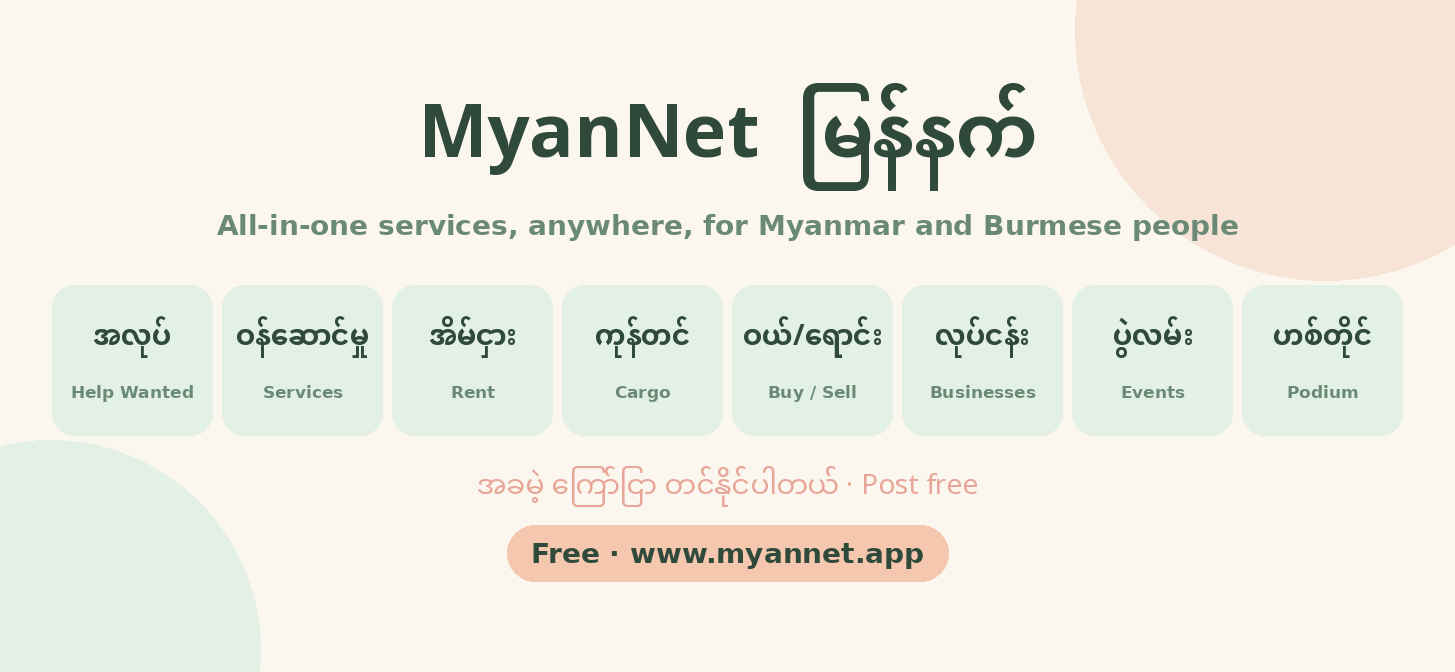
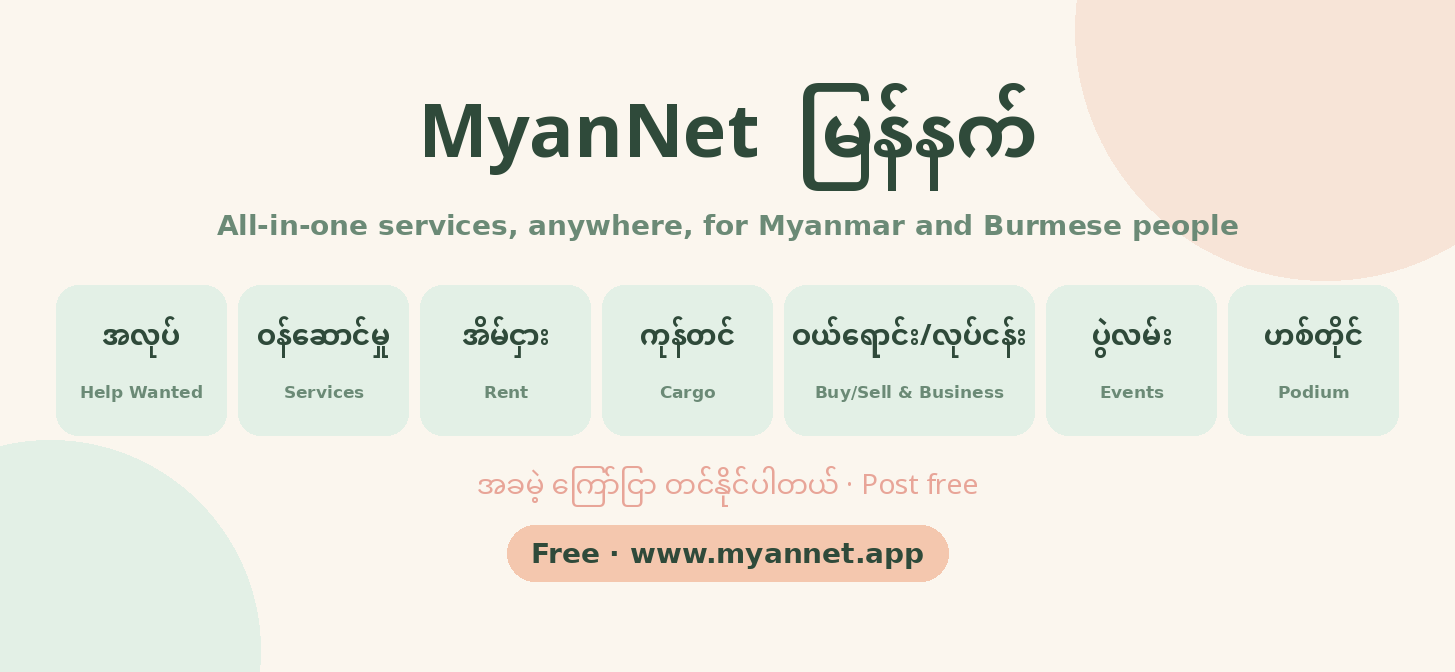
Combine Buy/Sell and Businesses into one section
Claude-Session: https://claude.ai/code/session_01Qz7Ga2ARQCafnsXr2KAzox

diff --git a/app/page.tsx b/app/page.tsx
@@ -22,9 +22,9 @@ const T = {
     tagline:"The all-in-one platform for Burmese/Myanmar communities worldwide — find work, find services, rent a room, ship goods, buy & sell, and share community events — all in one trusted place.",
     vision:"Connecting Myanmar/Burmese communities living and working abroad with their loved ones at home, and vice versa.",
     visionTitle:"🌏 Our Vision", whoTitle:"Who MyanNet Serves",
-    pillars:["Help Wanted","Services","Rent","Cargo / Hand Carry","Buy / Sell Goods","Businesses","Community / Events"],
-    pillarIcons:["💼","🛠","🏠","✈","🛍","🏪","🎉"],
-    pillarDesc:["Find work or post openings across all countries","Tax, law, notary, office paperwork, translation & more","Find or offer housing in the Burmese community","Hand-carry goods between countries — trusted travelers","Buy & sell within the trusted Burmese community","Find Burmese-owned businesses, shops & services","Festivals, temple & community events, meetups and classes"],
+    pillars:["Help Wanted","Services","Rent","Cargo / Hand Carry","Buy, Sell & Business","Community / Events"],
+    pillarIcons:["💼","🛠","🏠","✈","🏪","🎉"],
+    pillarDesc:["Find work or post openings across all countries","Tax, law, notary, office paperwork, translation & more","Find or offer housing in the Burmese community","Hand-carry goods between countries — trusted travelers","Buy & sell items, and find Burmese-owned businesses & shops","Festivals, temple & community events, meetups and classes"],
     who:[{e:"🍣",t:"Burmese Sushi Workers",d:"In US restaurants, grocery stores & catering"},{e:"🏭",t:"Factory & Construction Workers",d:"In Thailand, Malaysia, Korea & Japan"},{e:"🏪",t:"Small Business Owners",d:"Restaurants, shops & services in diaspora"},{e:"✈",t:"New Arrivals",d:"Need housing, work & community fast"},{e:"💰",t:"Families Back Home",d:"Staying connected with loved ones abroad"},{e:"🌏",t:"Cross-Border Travelers",d:"Hand-carrying goods between countries"}],
     findWork:"Find Work", hireWorkers:"Hire Workers", allPosts:"All", jobsAvail:"🏪 Jobs Available", seekWork:"👷 Seeking Work",
     allRooms:"All", roomsAvail:"🏠 Available", seekRoom:"🔍 Seeking",
@@ -50,9 +50,9 @@ const T = {
     tagline:"ကမ္ဘာတစ်ဝှမ်းရှိ မြန်မာ/ဗမာ လူ့အဖွဲ့အစည်းများအတွက် စုံလင်သောပလက်ဖောင်း — အလုပ်ရှာ၊ ဝန်ဆောင်မှုရှာ၊ အခန်းငှား၊ ကုန်ပို့၊ အသိုင်းအဝိုင်း ပွဲလမ်းများနှင့် ယုံကြည်စိတ်ချရသော အသိုင်းအဝိုင်းအတွင်း ဝယ်/ရောင်း နိုင်ပါတယ်။",
     vision:"နိုင်ငံခြားတွင် အလုပ်လုပ်/နေထိုင်နေသော မြန်မာများနှင့် ဒေသတွင်းရှိ မိသားစု မိတ်ဆွေများအတွက်/ကို  ချိတ်ဆက်ပေးမည့် — နှစ်ဦးနှစ်ဖက်/အပြန်အလှန် အကျိုးတူ",
     visionTitle:"🌏 ကျွန်ုပ်တို့၏ မျှော်မှန်းချက်", whoTitle:"မြန်နက် မည်သူမဆို",
-    pillars:["အလုပ်အကိုင်","ဝန်ဆောင်မှု","အိမ်ငှား","ကုန်တင်ဆောင်","ဝယ်/ရောင်း ပစ္စည်းများ","လုပ်ငန်းများ","ပွဲလမ်း / အသိုင်းအဝိုင်း"],
-    pillarIcons:["💼","🛠","🏠","✈","🛍","🏪","🎉"],
-    pillarDesc:["နိုင်ငံတကာတွင် အလုပ်ရှာဖွေ သို့မဟုတ် ဖော်ပြရန်","အခွန်၊ ဥပဒေ၊ နိုတာရီ၊ ရုံးစာရွက်စာတမ်း၊ ဘာသာပြန် စသည်","မြန်မာ့လူ့အဖွဲ့အစည်းအတွင်း အိမ်ရှာဖွေ သို့မဟုတ် ငှားရမ်းရန်","နိုင်ငံများကြားတွင် ကိုယ်ထည်ဆောင်ပေးသောဝန်ဆောင်မှု","ယုံကြည်ရသောအသိုင်းအဝိုင်းအတွင်း ဝယ်ရောင်းရန်","မြန်မာလုပ်ငန်းများ၊ ဆိုင်များနှင့် ဝန်ဆောင်မှုများ ရှာဖွေရန်","ပွဲတော်များ၊ ဘုန်းကြီးကျောင်းနှင့် အသိုင်းအဝိုင်း ပွဲများ၊ တွေ့ဆုံပွဲ၊ သင်တန်းများ"],
+    pillars:["အလုပ်အကိုင်","ဝန်ဆောင်မှု","အိမ်ငှား","ကုန်တင်ဆောင်","ဝယ်ရောင်း နှင့် လုပ်ငန်း","ပွဲလမ်း / အသိုင်းအဝိုင်း"],
+    pillarIcons:["💼","🛠","🏠","✈","🏪","🎉"],
+    pillarDesc:["နိုင်ငံတကာတွင် အလုပ်ရှာဖွေ သို့မဟုတ် ဖော်ပြရန်","အခွန်၊ ဥပဒေ၊ နိုတာရီ၊ ရုံးစာရွက်စာတမ်း၊ ဘာသာပြန် စသည်","မြန်မာ့လူ့အဖွဲ့အစည်းအတွင်း အိမ်ရှာဖွေ သို့မဟုတ် ငှားရမ်းရန်","နိုင်ငံများကြားတွင် ကိုယ်ထည်ဆောင်ပေးသောဝန်ဆောင်မှု","ပစ္စည်း ဝယ်ရောင်းရန်နှင့် မြန်မာလုပ်ငန်း၊ ဆိုင်များ ရှာဖွေရန်","ပွဲတော်များ၊ ဘုန်းကြီးကျောင်းနှင့် အသိုင်းအဝိုင်း ပွဲများ၊ တွေ့ဆုံပွဲ၊ သင်တန်းများ"],
     who:[{e:"🍣",t:"ဆူရှီ သမားများအတွက်",d:"အမေရိကန်ရှိ စားသောက်ဆိုင်နှင့်လိုအပ်တာများ"},{e:"🏭",t:"စက်ရုံနှင့် ဆောက်လုပ်ရေး",d:"ထိုင်း၊ မလေးရှား၊ ကိုရီးယား၊ ဂျပန်တွင်"},{e:"🏪",t:"လုပ်ငန်းရှင်များ",d:"ပြည်ပရှိ စားသောက်ဆိုင်၊ ဆိုင်ခန်းနှင့် ဝန်ဆောင်မှုများ"},{e:"✈",t:"အသစ်ရောက်ရှိသူများ",d:"အိမ်ရာ၊ အလုပ်နှင့် အသိုင်းအဝိုင်း လိုအပ်သူများ"},{e:"💰",t:"မြန်မာပြည်ရှိ မိသားစု",d:"ပြည်ပရှိ ချစ်ရသူများနှင့် ဆက်သွယ်နေသူများ"},{e:"🌏",t:"နိုင်ငံဖြတ်ကျော်ခရီးသည်",d:"နိုင်ငံများကြားတွင် ကုန်ပစ္စည်းဆောင်ဆောင်သူများ"}],
     findWork:"အလုပ်ရှာ", hireWorkers:"အလုပ်သမားခေါ်", allPosts:"အားလုံး", jobsAvail:"🏪 အလုပ်ရှိသည်", seekWork:"👷 အလုပ်ရှာနေသည်",
     allRooms:"အားလုံး", roomsAvail:"🏠 ငှားရမ်းရန်ရှိ", seekRoom:"🔍 အိမ်ရှာနေသည်",
@@ -98,18 +98,7 @@ const CARGO=[
   {id:4,type:"carry",name:"Ko Nay Lin",route:"Tokyo → Yangon",date:"Sep 3, 2025",space:"8 kg",price:"$10/kg",contact:"+81-90-555-0404",desc:"Electronics, medicine, clothes. No liquids.",descMM:"အီလက်ထရောနစ်၊ ဆေး၊ အဝတ်အထည်။ အရည်မဆောင်ပါ။"},
   {id:5,type:"need",name:"Daw Khin",route:"USA → Yangon",date:"Before Sep",items:"Documents, baby items",contact:"+1-323-555-0202",desc:"Urgent: documents + baby formula.",descMM:"အရေးပေါ်: စာရွက်စာတမ်းနှင့် ကလေးနို့မှုန့်"},
 ];
-const GOODS=[
-  {id:1,title:"Toyota Camry 2018",titleMM:"တိုယိုတာ ကမ်ရီ ၂၀၁၈",cat:"🚗 Vehicles",price:"$12,500",loc:"Houston 🇺🇸",seller:"Ko Aung",img:"🚗",desc:"Clean title, 85k miles.",descMM:"မှတ်ပုံတင်သန့်၊ ၈၅,၀၀၀ မိုင်"},
-  {id:2,title:"iPhone 14 Pro 256GB",titleMM:"အိုင်ဖုန်း ၁၄ ပရို",cat:"📱 Electronics",price:"$650",loc:"LA 🇺🇸",seller:"Ma Thida",img:"📱",desc:"Unlocked, excellent condition.",descMM:"ကိုမဆိုသုံးနိုင်၊ အခြေအနေကောင်းသည်"},
-  {id:3,title:"Sushi Equipment Full Set",titleMM:"ဆူရှီ ကိရိယာ အစုံ",cat:"🔪 Equipment",price:"$3,200",loc:"Chicago 🇺🇸",seller:"U Kyaw",img:"🔪",desc:"Rice cooker, display case, full tools.",descMM:"ထမင်းပေါင်း၊ ပြသသောသေတ္တာ၊ ကိရိယာအစုံ"},
-  {id:4,title:"Honda Jazz 2016",titleMM:"ဟွန်ဒါ ဂျက် ၂၀၁၆",cat:"🚗 Vehicles",price:"RM 28,000",loc:"KL 🇲🇾",seller:"Ko Myo",img:"🚙",desc:"Good condition, service record.",descMM:"အခြေအနေကောင်း၊ ပြုပြင်မှတ်တမ်းရှိ"},
-  {id:5,title:"Gold Necklace 2 Baht",titleMM:"ရွှေလည်ဆွဲ ၂ ဘာတ်",cat:"💍 Jewelry",price:"฿28,000",loc:"Bangkok 🇹🇭",seller:"Ma Hnin",img:"💍",desc:"Myanmar gold, genuine.",descMM:"မြန်မာ ရွှေစစ်စစ်"},
-  {id:6,title:"Burmese Cooking Pots Set",titleMM:"မြန်မာ ချက်ပြုတ်ရေး အိုးစုံ",cat:"🍳 Household",price:"$80",loc:"Atlanta 🇺🇸",seller:"Daw Khin",img:"🍳",desc:"Large set, great for restaurant.",descMM:"ကြီးသောအစုံ၊ စားသောက်ဆိုင်အတွက် သင့်တော်"},
-  {id:7,title:"Samsung Galaxy S23",titleMM:"ဆမ်ဆောင်း ဂလက်ဆီ S23",cat:"📱 Electronics",price:"¥45,000",loc:"Tokyo 🇯🇵",seller:"Ko Nay",img:"📱",desc:"Like new, unlocked.",descMM:"အသစ်နှင့်တူ၊ ကိုမဆိုသုံးနိုင်"},
-  {id:8,title:"Sewing Machine — Singer",titleMM:"ဆင်ဂျာ ချုပ်စက်",cat:"🪡 Equipment",price:"RM 350",loc:"Penang 🇲🇾",seller:"Ma Win",img:"🧵",desc:"Works perfectly, moving sale.",descMM:"ကောင်းစွာအလုပ်လုပ်သည်"},
-];
-
-const PILLARS=["jobs","services","rent","cargo","goods","biz","events"];
+const PILLARS=["jobs","services","rent","cargo","biz","events"];
 const COLORS={jobs:"#c0392b",services:"#7c3aed",events:"#4d7c0f",rent:"#0891b2",cargo:"#d97706",goods:"#16a34a",biz:"#9d174d"};
 const avCol=a=>a==="Available Now"?"#16a34a":a==="Available This Week"?"#d97706":"#6366f1";
 const Tag=({bg="#f3f4f6",c="#374151",children})=><span style={{background:bg,color:c,borderRadius:20,padding:"3px 10px",fontSize:11,fontWeight:700,display:"inline-block",margin:"2px"}}>{children}</span>;
@@ -123,8 +112,7 @@ export default function App(){
   const [modal,setModal]=useState(null);
   const [sendAmt,setSendAmt]=useState("500");
   const [fromC,setFromC]=useState("🇺🇸 USA");
-  const [goodsCat,setGoodsCat]=useState("All");
-  const [profileOpen,setProfileOpen]=useState(false);
+    const [profileOpen,setProfileOpen]=useState(false);
 
   // Auth (real Supabase sign-in once keys are set; demo sign-in until then)
   const [user,setUser]=useState(null);
@@ -379,34 +367,6 @@ export default function App(){
           ))}
         </div>
       </div>}
-
-      {/* GOODS */}
-      {tab==="goods"&&<div style={{maxWidth:1000,margin:"0 auto",padding:"18px 16px"}}>
-        <div style={{display:"flex",gap:8,flexWrap:"wrap",marginBottom:18}}>
-          {["All","🚗 Vehicles","📱 Electronics","🔪 Equipment","💍 Jewelry","🍳 Household"].map(c=>(
-            <button key={c} onClick={()=>setGoodsCat(c)} style={{padding:"7px 14px",borderRadius:20,border:`2px solid ${goodsCat===c?"#16a34a":"#ddd"}`,background:goodsCat===c?"#16a34a":"#fff",color:goodsCat===c?"#fff":"#555",fontWeight:700,cursor:"pointer",fontSize:12}}>{c}</button>
-          ))}
-        </div>
-        <CommunityListings pillar="goods" color={COLORS.goods}/>
-        <div style={{background:"#f3f4f6",borderRadius:10,padding:"9px 12px",margin:"6px 0 12px",fontSize:12,color:"#555"}}>{t.examplesNote}</div>
-        <div style={{display:"grid",gridTemplateColumns:"repeat(auto-fill,minmax(220px,1fr))",gap:14}}>
-          {GOODS.filter(g=>goodsCat==="All"||g.cat===goodsCat).map(g=>(
-            <div key={g.id} style={{background:"#fff",borderRadius:16,padding:16,boxShadow:"0 4px 14px rgba(0,0,0,0.07)"}}>
-              <div style={{background:"#f0fdf4",borderRadius:12,height:80,display:"flex",alignItems:"center",justifyContent:"center",fontSize:44,marginBottom:10}}>{g.img}</div>
-              <div style={{display:"flex",justifyContent:"space-between",alignItems:"flex-start",marginBottom:4}}>
-                <div style={{fontWeight:800,fontSize:13,flex:1}}>{tx(g.title,g.titleMM)}</div>
-                <div style={{fontWeight:900,fontSize:15,color:"#16a34a",marginLeft:6}}>{g.price}</div>
-              </div>
-              <Tag bg="#e5e7eb" c="#374151">{t.example}</Tag><Tag bg="#f0fdf4" c="#16a34a">{g.cat}</Tag>
-              <div style={{fontSize:11,color:"#555",margin:"6px 0 3px",lineHeight:1.5}}>{tx(g.desc,g.descMM)}</div>
-              <div style={{fontSize:10,color:"#aaa",marginBottom:8}}>📍 {g.loc} · 👤 {g.seller}</div>
-              <FbBtn label={t.msgSeller}/>
-            </div>
-          ))}
-        </div>
-      </div>}
-
-      {nameOpen&&user&&<Profile user={user} lang={lang} onClose={()=>setNameOpen(false)} onSaved={u=>{setUser(u);setVersion(v=>v+1);}}/>}
 
       {/* ZAYAT */}
       {tab==="zayat"&&<Zayat/>}

diff --git a/components/Latest.tsx b/components/Latest.tsx
@@ -9,7 +9,7 @@ import { THEME } from "./ui";
 const SEC: Record<string, [string, string, string, string]> = {
   jobs: ["💼", "Help Wanted", "အလုပ်အကိုင်", "#c0392b"], services: ["🛠", "Services", "ဝန်ဆောင်မှု", "#7c3aed"], events: ["🎉", "Event", "ပွဲလမ်း", "#4d7c0f"],
   rent: ["🏠", "Rent", "အိမ်ငှား", "#0891b2"], cargo: ["✈", "Cargo", "ကုန်တင်ဆောင်", "#d97706"],
-  goods: ["🛍", "Buy / Sell", "ဝယ်/ရောင်း", "#16a34a"], biz: ["🏪", "Business", "လုပ်ငန်း", "#9d174d"],
+  goods: ["🛍", "Buy / Sell", "ဝယ်/ရောင်း", "#9d174d"], biz: ["🏪", "Buy, Sell & Business", "ဝယ်ရောင်း/လုပ်ငန်း", "#9d174d"],
 };
 const BROWN = "#8d5a2b";
 
@@ -36,7 +36,7 @@ export default function Latest({ onOpen }: { onOpen: (tab: string) => void }) {
         {!items.length && <div style={{ fontSize: 13, color: "#888", padding: 10 }}>{mm ? "ပို့စ် မရှိသေးပါ။" : "No posts yet."}</div>}
         <div className="mn-latest-grid" style={{ display: "grid", gridTemplateColumns: "minmax(0,1fr) minmax(0,1fr)", gap: 6 }}>
           {items.map((l) => {
-            const s = SEC[l.pillar] || ["📌", l.pillar, l.pillar, THEME.green];
+            const s = (l.pillar === "biz" && l.kind === "goods" ? SEC.goods : SEC[l.pillar]) || ["📌", l.pillar, l.pillar, THEME.green];
             return (
               <div key={l.id} onClick={() => onOpen(l.pillar)} style={{ borderLeft: `3px solid ${s[3]}`, background: "#fafcfa", borderRadius: 8, padding: "6px 9px", cursor: "pointer", minWidth: 0, overflow: "hidden" }}>
                 <div style={{ display: "flex", justifyContent: "space-between", gap: 6, fontSize: 10.5 }}>

diff --git a/components/PostFlow.tsx b/components/PostFlow.tsx
@@ -8,9 +8,9 @@ import { Modal, Btn, inputStyle, THEME } from "./ui";
 
 // Each post type maps to one of the site's sections ("pillars").
 export const TYPE_TO_PILLAR: Record<string, string> = {
-  biz: "biz", ad: "biz", card: "biz", jobs: "jobs", rent: "rent", services: "services", cargo: "cargo", goods: "goods", events: "events",
+  biz: "biz", ad: "biz", card: "biz", jobs: "jobs", rent: "rent", services: "services", cargo: "cargo", goods: "biz", events: "events",
 };
-const TYPE_ORDER = ["biz", "ad", "card", "jobs", "services", "rent", "cargo", "goods", "events"];
+const TYPE_ORDER = ["biz", "ad", "card", "jobs", "services", "rent", "goods", "cargo", "events"];
 const CONTACT_FIELDS: [keyof store.Contact, string][] = [
   ["facebook", "cFacebook"], ["tiktok", "cTiktok"], ["telegram", "cTelegram"],
   ["viber", "cViber"], ["whatsapp", "cWhatsapp"], ["phone", "cPhone"],
